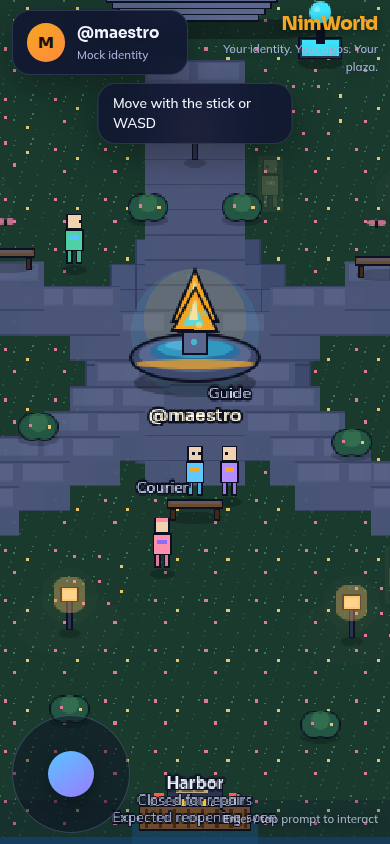
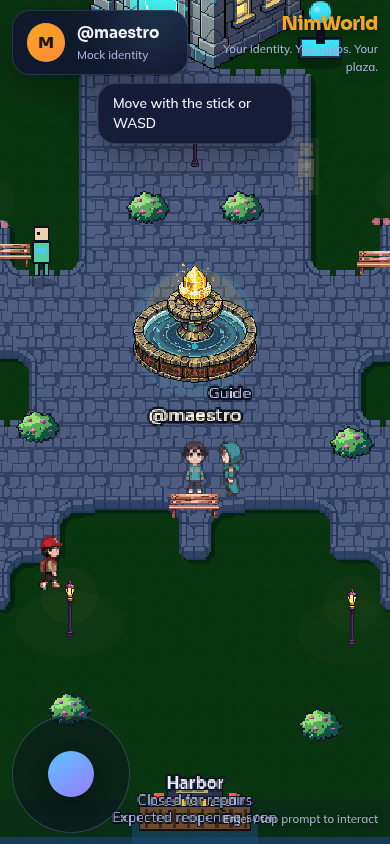
docs(art): ground terrain pass screenshots and follow-ups
Capture desktop/mobile after Wang TilemapLayer integration; list
deferred cobble/character/prop work until visual review.

diff --git a/docs/plans/2026-08-02-ground-terrain-pass-followups.md b/docs/plans/2026-08-02-ground-terrain-pass-followups.md
@@ -1,0 +1,21 @@
+# Ground Terrain Pass — Deferred Follow-ups
+
+**Date:** 2026-08-02  
+**Status:** After visual review of Wang terrain pass only.
+
+Do **not** implement these until the ground screenshots are approved.
+
+## Deferred
+
+1. **Optional rough cobblestone ↔ grass** second material (only if review asks for route vs plaza material contrast).
+2. **Distinct art** for semantic `entrance` / `construction` (same stone family this pass).
+3. Character / animation polish.
+4. Prop placement refinement on the new terrain.
+5. Ambient FX beyond ground evaluation.
+6. Map expansion / UI redesign / bridge-adapter changes.
+
+## Known notes from this pass
+
+- Approved sheet is PixelLab attempt 1 topology with an art-bible palette remap (`tileset_pixellab_raw.png` retained).
+- Dual-grid `tile-owns-NW` sampling means eastern/southern map edges blend to grass when OOB = grass — intentional.
+- Terrain grid is 30×23 (736px tall); last row may extend 16px past `WORLD.height` 720 and is clipped by camera bounds.
